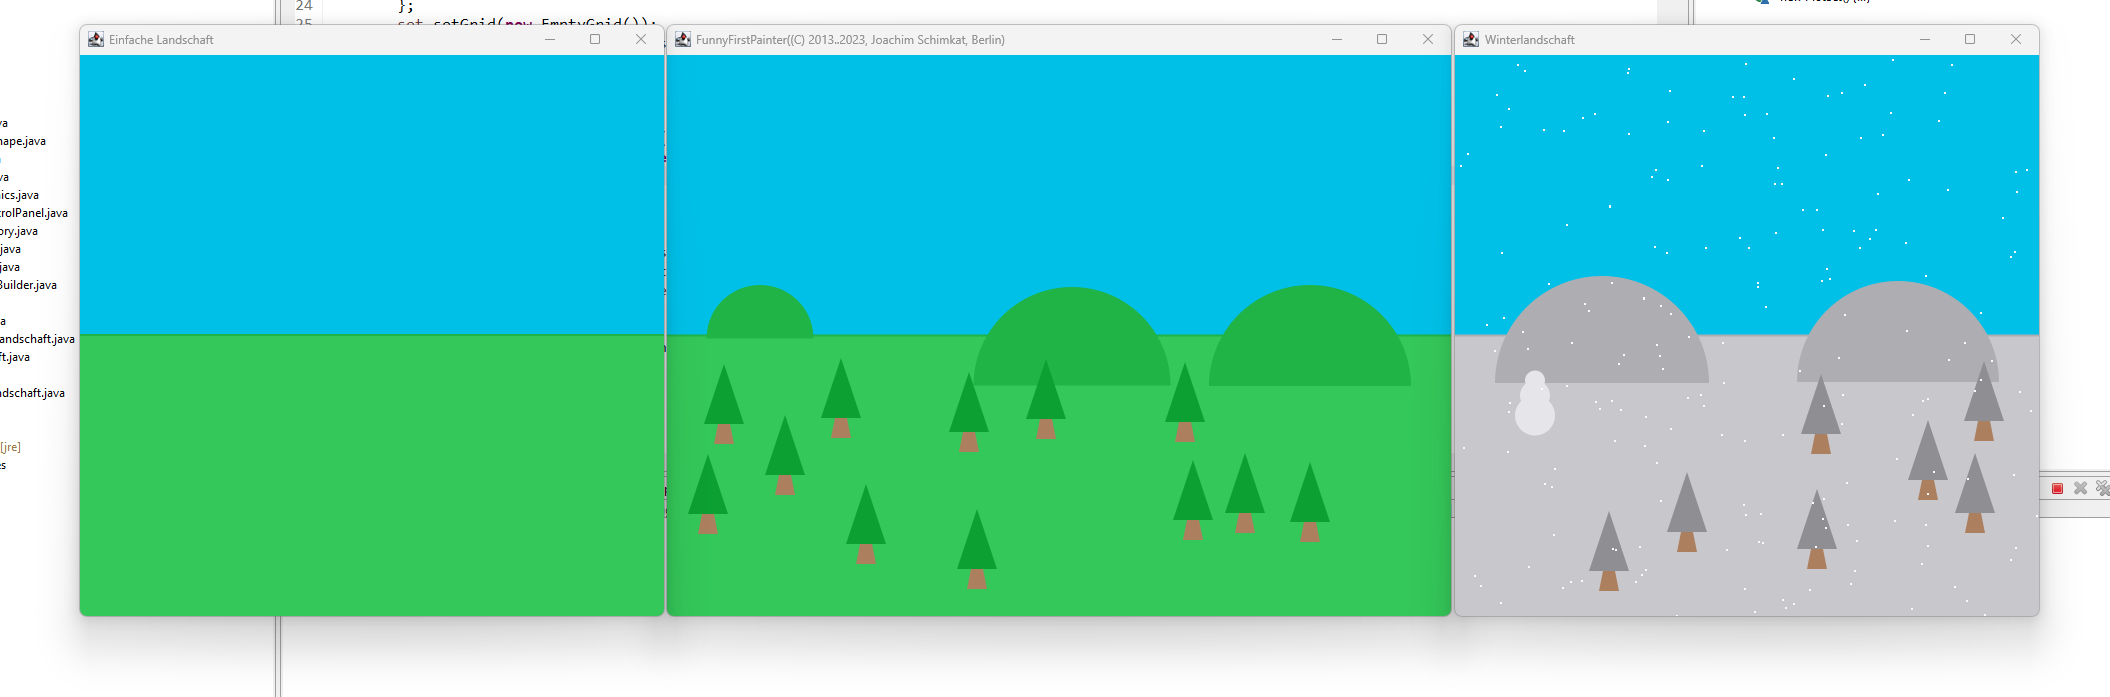
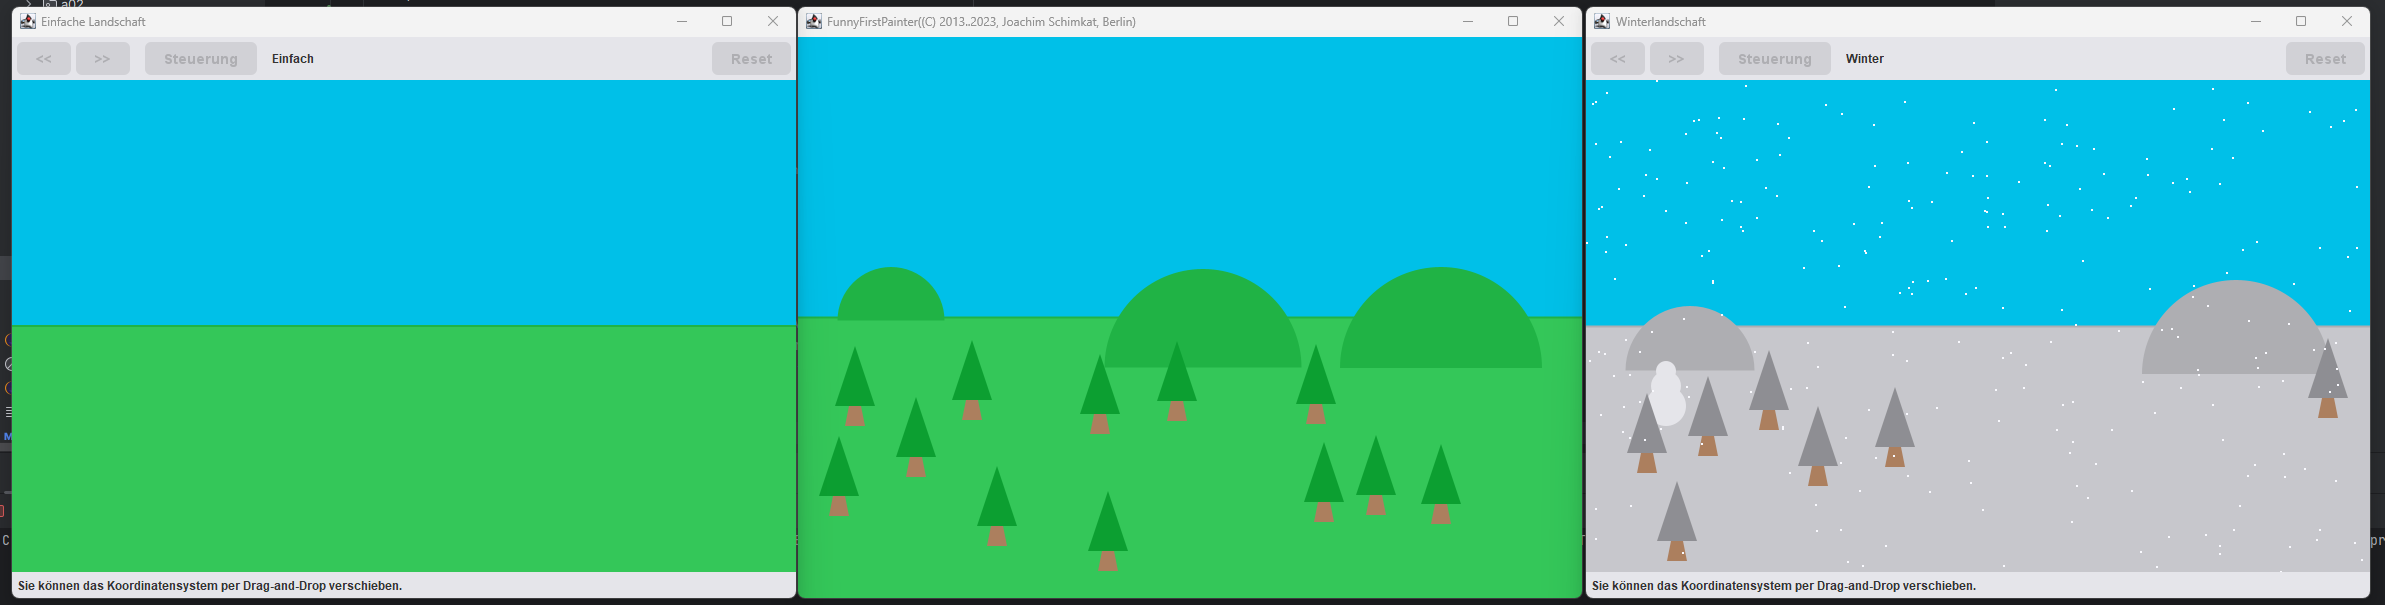
update

diff --git a/src/pr1/a07/plot/PlotApplication.java b/src/pr1/a07/plot/PlotApplication.java
@@ -47,13 +47,25 @@ import java.util.Map;
  * {@link PlotControl} windows.
  *
  * <p><strong>Note:</strong> This class is a work in progress. Future
- * enhancements
- * may include support for UI navigation (e.g., menus or toolbars to select
+ * enhancements may include support for UI navigation (e.g., menus or
+ * toolbars to select
  * active plot sets), persistence of plot configurations, and improved lifecycle
  * management of controls.</p>
  */
 public class PlotApplication extends JFrame {
+
+    /**
+     * Horizontal offset (in pixels) applied to the origin of all drawings.
+     * This value is shared globally across all drawable objects to enable
+     * panning of the entire coordinate system.
+     */
     public static double X_DELTA = 0;
+
+    /**
+     * Vertical offset (in pixels) applied to the origin of all drawings.
+     * This value is shared globally across all drawable objects to enable
+     * panning of the entire coordinate system.
+     */
     public static double Y_DELTA = 0;
 
     private final DrawablePanel panel = new DrawablePanel();
@@ -63,7 +75,8 @@ public class PlotApplication extends JFrame {
     private final JButton resetBtn = new ModernButton("Reset", Colors.BLUE);
     private final JButton nextBtn = new ModernButton(">>");
     private final JButton prevBtn = new ModernButton("<<");
-    private final ModernButton toggleControlBtn = new ModernButton("Steuerung", Colors.BLUE);
+    private final ModernButton toggleControlBtn = new ModernButton("Steuerung"
+            , Colors.BLUE);
     private Point dragStart = null;
     private PlotSet<?> activeSet = null;
     private int currentPlot = 0;
@@ -111,14 +124,14 @@ public class PlotApplication extends JFrame {
         JPanel btnContainer = new JPanel();
         JPanel infoContainer = new JPanel();
 
-
         btnContainer.setLayout(new BoxLayout(btnContainer, BoxLayout.X_AXIS));
         btnContainer.setBorder(BorderFactory.createEmptyBorder(5, 5, 5, 5));
         btnContainer.setBackground(Colors.GRAY5);
         infoContainer.setLayout(new BoxLayout(infoContainer, BoxLayout.X_AXIS));
         infoContainer.setBorder(BorderFactory.createEmptyBorder(5, 5, 5, 5));
         infoContainer.setBackground(Colors.GRAY5);
-        infoContainer.add(new JLabel("Sie können das Koordinatensystem per Drag-and-Drop verschieben."));
+        infoContainer.add(new JLabel("Sie können das Koordinatensystem per " +
+                "Drag-and-Drop verschieben."));
         panel.setBackground(Colors.GRAY6);
         setMinimumSize(new Dimension(800, 600));
         setTitle(title);
@@ -147,6 +160,12 @@ public class PlotApplication extends JFrame {
         setupMouseListener();
     }
 
+    /**
+     * Sets up mouse listeners on the drawing panel to enable drag-and-drop
+     * panning of the coordinate system. The offset values {@link #X_DELTA}
+     * and {@link #Y_DELTA} are updated in real time during dragging,
+     * and the reset button state is refreshed when dragging ends.
+     */
     public void setupMouseListener() {
         panel.addMouseListener(new MouseAdapter() {
             @Override
@@ -198,7 +217,7 @@ public class PlotApplication extends JFrame {
      * and shows the associated control window.
      *
      * @param set the plot set to activate; must be registered via
-     * {@link #addPlotSet}
+     *            {@link #addPlotSet}
      */
     public void switchToSet(PlotSet<?> set) {
         if (activeSet != null) {
@@ -215,50 +234,72 @@ public class PlotApplication extends JFrame {
         if (control != null) {
             control.setVisible(true);
             toggleControlBtn.setBaseColor(Colors.BLUE);
+            toggleControlBtn.setEnabled(true);
         } else {
             toggleControlBtn.setEnabled(false);
         }
         if (set.getGraphs().size() == 1) {
             nextBtn.setEnabled(false);
             prevBtn.setEnabled(false);
+        } else {
+            nextBtn.setEnabled(true);
+            prevBtn.setEnabled(true);
         }
         panel.repaint();
     }
 
+    /**
+     * Toggles the visibility of the currently active plot control window.
+     * Updates the button color to reflect the current state (blue = visible,
+     * gray = hidden).
+     *
+     * @param e the action event triggering this method (ignored)
+     */
     public void toggleControl(ActionEvent e) {
         if (null != control) {
-            control.setVisible(!control.isVisible());
-            if (control.isVisible()) {
-                toggleControlBtn.setBaseColor(Colors.BLUE);
-            } else {
-                toggleControlBtn.setBaseColor(Colors.GRAY3);
-            }
+            boolean willBeVisible = !control.isVisible();
+            control.setVisible(willBeVisible);
+            toggleControlBtn.setBaseColor(willBeVisible ? Colors.BLUE :
+                    Colors.GRAY2);
         }
-
     }
 
+    /**
+     * Cycles to the next registered plot set in a circular manner.
+     * If the last set is active, it wraps around to the first one.
+     *
+     * @param e the action event triggering this method (ignored)
+     */
     public void nextPlotSet(ActionEvent e) {
         if (currentPlot < plotSets.size() - 1) {
-
             currentPlot++;
         } else {
-
             currentPlot = 0;
         }
         switchToSet(plotSets.get(currentPlot));
     }
 
+    /**
+     * Cycles to the previous registered plot set in a circular manner.
+     * If the first set is active, it wraps around to the last one.
+     *
+     * @param e the action event triggering this method (ignored)
+     */
     public void prevPlotSet(ActionEvent e) {
         if (currentPlot > 0) {
-
             currentPlot--;
         } else {
-
             currentPlot = plotSets.size() - 1;
         }
         switchToSet(plotSets.get(currentPlot));
     }
 
+    /**
+     * Resets the coordinate system offset to zero (centered view).
+     * Disables the reset button afterward and triggers a repaint.
+     *
+     * @param e the action event triggering this method (ignored)
+     */
     public void resetMove(ActionEvent e) {
         X_DELTA = 0;
         Y_DELTA = 0;
@@ -267,14 +308,15 @@ public class PlotApplication extends JFrame {
     }
 
     /**
-     * Starts the application by setting the main frame visible.
+     * Starts the application by making the main window visible.
      */
     public void start() {
         setVisible(true);
     }
 
     /**
-     * Delegates control creation to the plot set itself.
+     * Delegates control creation to the plot set itself via its
+     * {@link PlotSet#createControl(PlotApplication)} method.
      * This method is called only once per plot set, when first needed.
      *
      * @param set the plot set for which to create a control
@@ -285,6 +327,13 @@ public class PlotApplication extends JFrame {
         return set.createControl(this);
     }
 
+    /**
+     * Updates the enabled state of the reset button based on whether the
+     * coordinate system has been moved from its origin (0,0).
+     * The button is enabled only if at least one of {@link #X_DELTA} or
+     * {@link #Y_DELTA} differs from zero (within a small tolerance to
+     * account for floating-point precision).
+     */
     private void updateResetButtonState() {
         boolean isAtOrigin =
                 (Math.abs(X_DELTA) < 1e-9) && (Math.abs(Y_DELTA) < 1e-9);

diff --git a/src/pr1/a08/Test.java b/src/pr1/a08/Test.java
@@ -22,6 +22,7 @@ public class Test {
         PlotApplication app = new PlotApplication("Einfache Landschaft", 600, 600);
         PlotSet<EinfacheLandschaft> set = new PlotSet<>() {
         };
+        set.setTitle("Einfach");
         set.setGrid(new EmptyGrid());
         set.addGraph(new EinfacheLandschaft());
         app.addPlotSet(set);
@@ -39,6 +40,7 @@ public class Test {
         PlotApplication app = new PlotApplication("Winterlandschaft", 600, 600);
         PlotSet<EinfacheLandschaft> set = new PlotSet<>() {
         };
+        set.setTitle("Winter");
         set.setGrid(new EmptyGrid());
         set.addGraph(new WinterLandschaft());
         app.addPlotSet(set);

diff --git a/src/pr1/a07/plot/components/ModernButton.java b/src/pr1/a07/plot/components/ModernButton.java
@@ -52,11 +52,15 @@ public class ModernButton extends JButton {
 
         Color buttonColor = baseColor;
         if (!isEnabled()) {
-            buttonColor = new Color(142, 142, 147);
+            buttonColor = Colors.GRAY4;
+            setForeground(Colors.GRAY2);
         } else if (getModel().isPressed()) {
             buttonColor = adjustBrightness(buttonColor, -0.2f);
         } else if (getModel().isRollover()) {
             buttonColor = adjustBrightness(buttonColor, -0.1f);
+        }
+        if (isEnabled()) {
+            setForeground(Colors.WHITE);
         }
 
         RoundRectangle2D shape = new RoundRectangle2D.Float(
